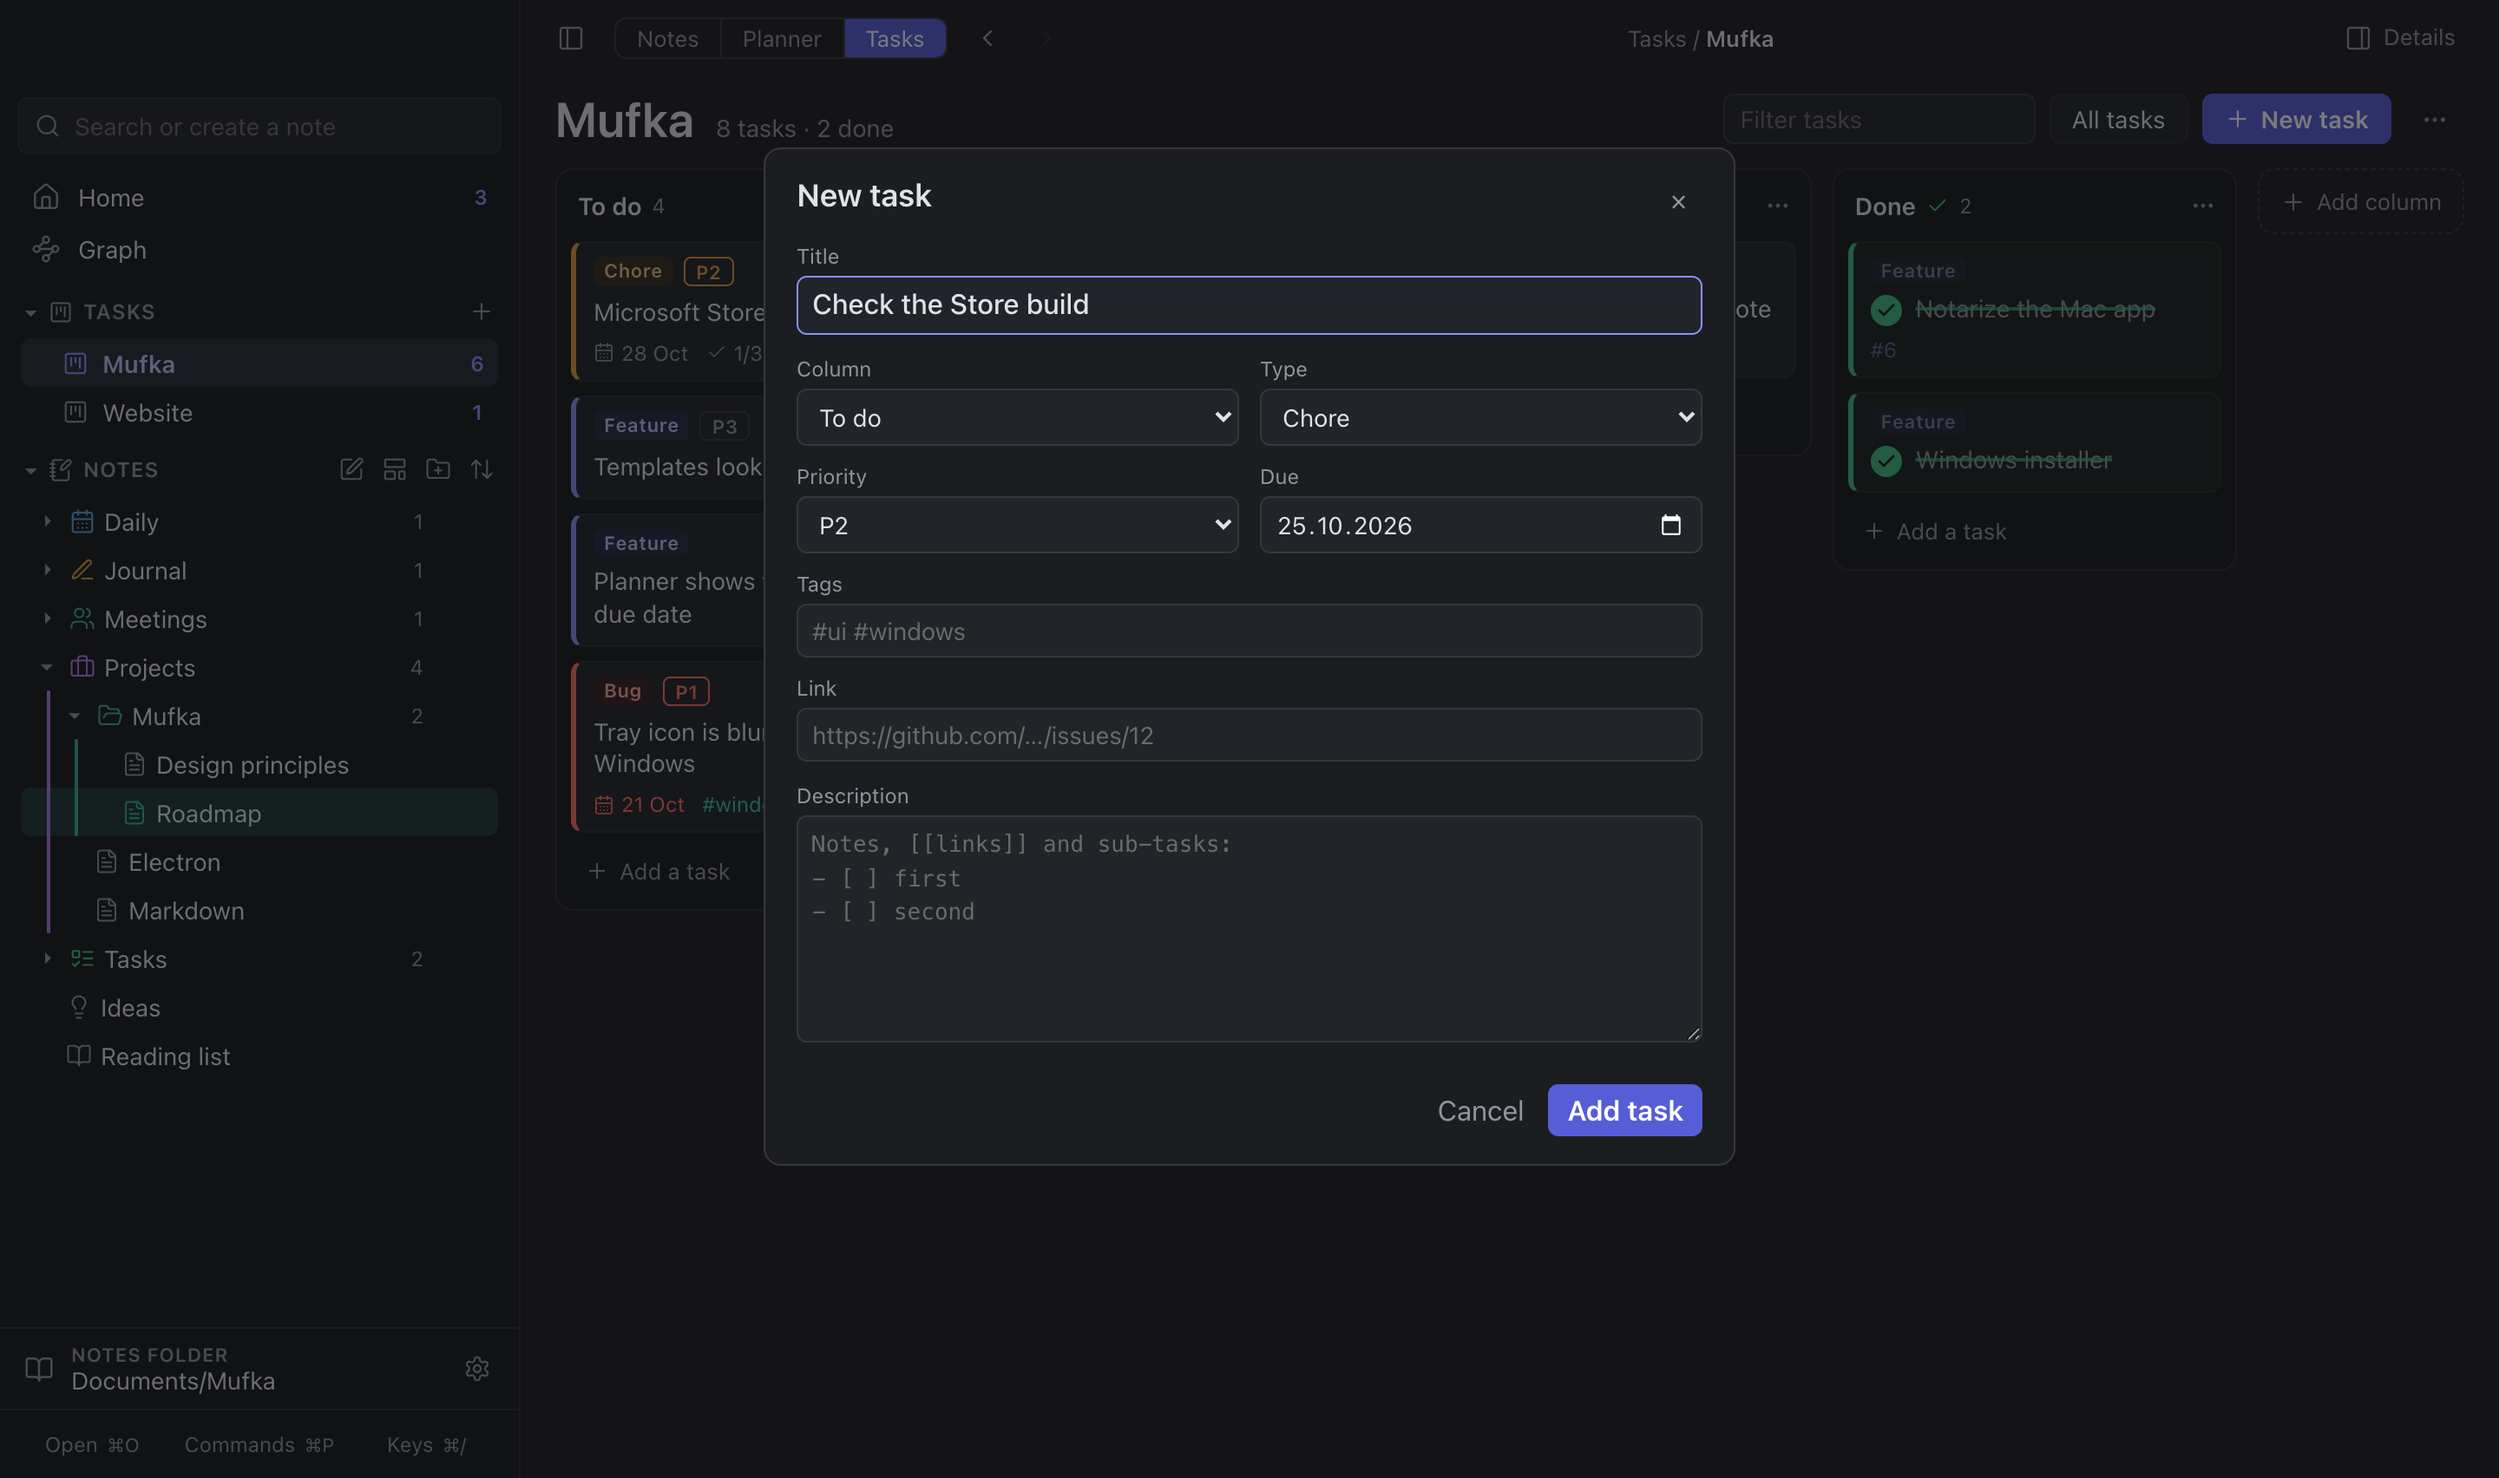
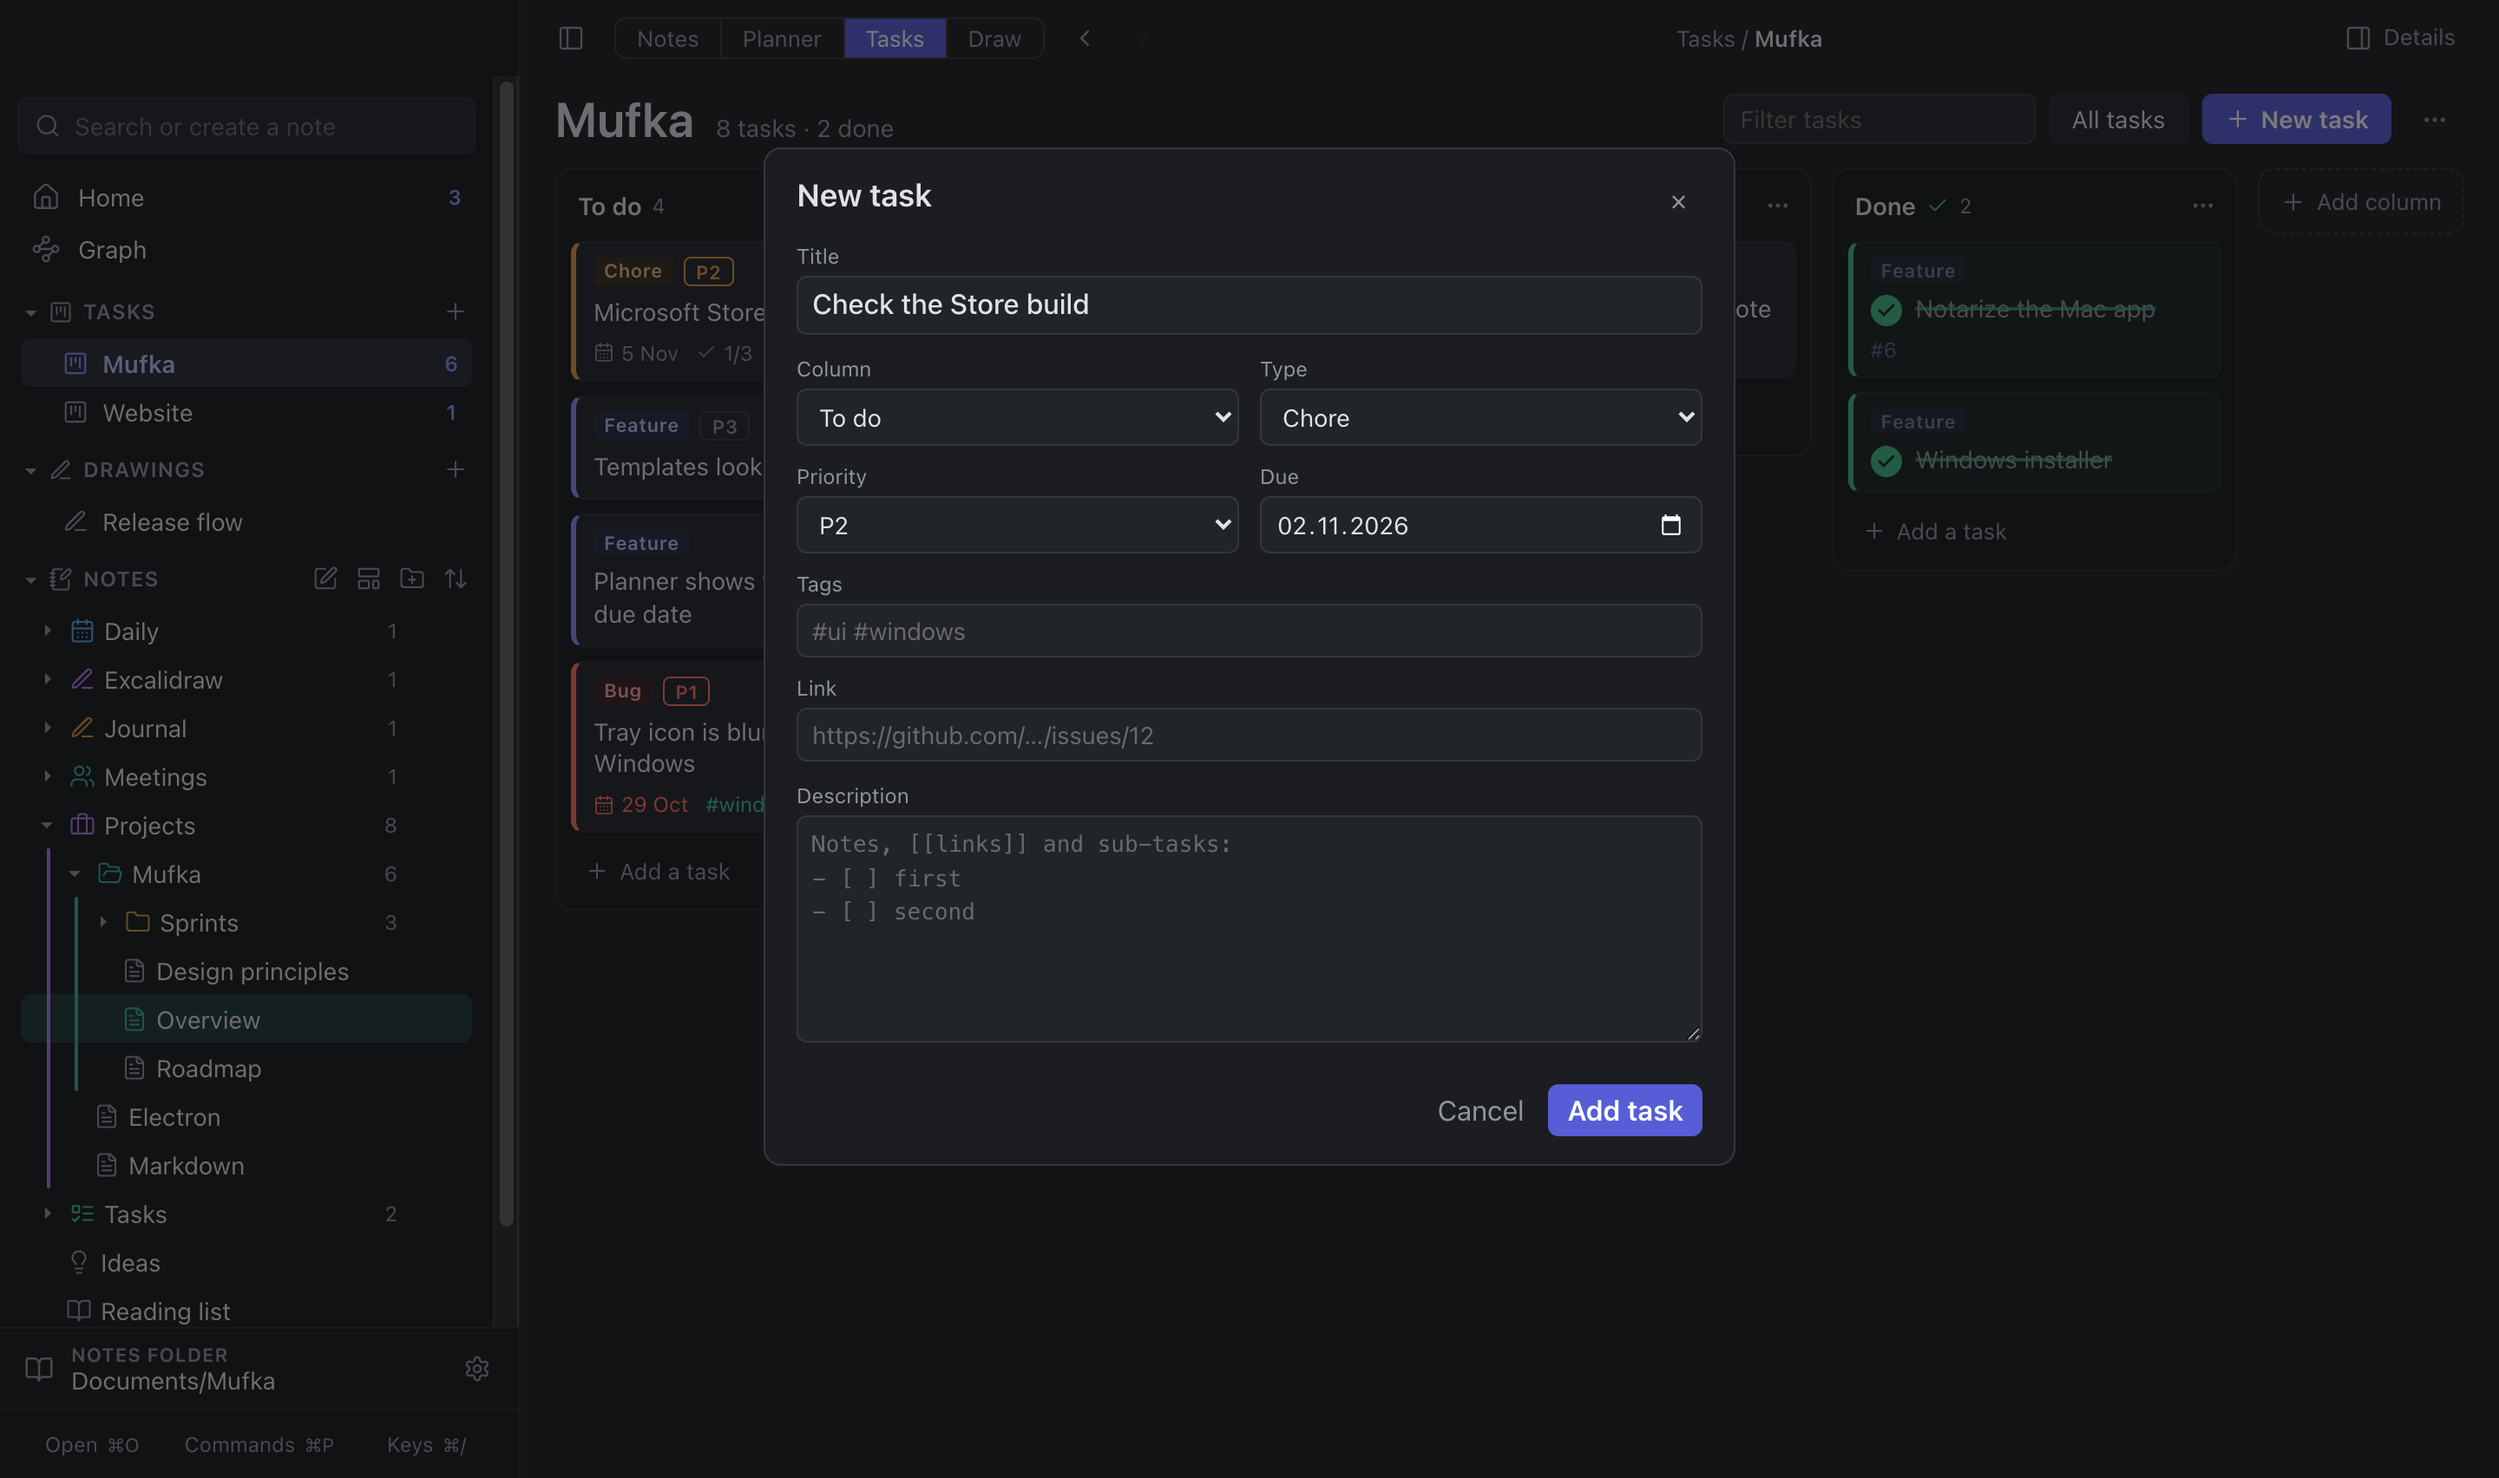
New screenshots: Dataview, Mermaid and Draw

diff --git a/README.md b/README.md
@@ -107,6 +107,8 @@ yet? Home offers to open the Planner.
   Read-only; it checks every 15 minutes. Wispr Flow's dictation also types
   straight into any note.
 
+<p align="center"><img src="docs/screenshots/dataview.png" width="85%" alt="A project overview note: a Dataview table of sprints, a total from a dataviewjs script, a Mermaid flowchart and the open tasks"></p>
+
 <p align="center"><img src="docs/screenshots/note.png" width="85%" alt="A note with the Details panel; the sidebar with coloured folders and icons"></p>
 
 <p align="center"><img src="docs/screenshots/templates.png" width="85%" alt="New note from a template: daily note, meeting notes, weekly review, project, book notes, recipe, habit tracker, budget, travel plan"></p>
@@ -145,6 +147,8 @@ yet? Home offers to open the Planner.
 - **In notes:** `![[Sketch.excalidraw]]` shows the drawing; click it to open
   it in Draw.
 - Nothing is fetched from the internet: the fonts come with the app.
+
+<p align="center"><img src="docs/screenshots/draw.png" width="85%" alt="Draw: an Excalidraw drawing of a release flow, with the Drawings list in the sidebar"></p>
 
 ### Graph, search and commands
 
